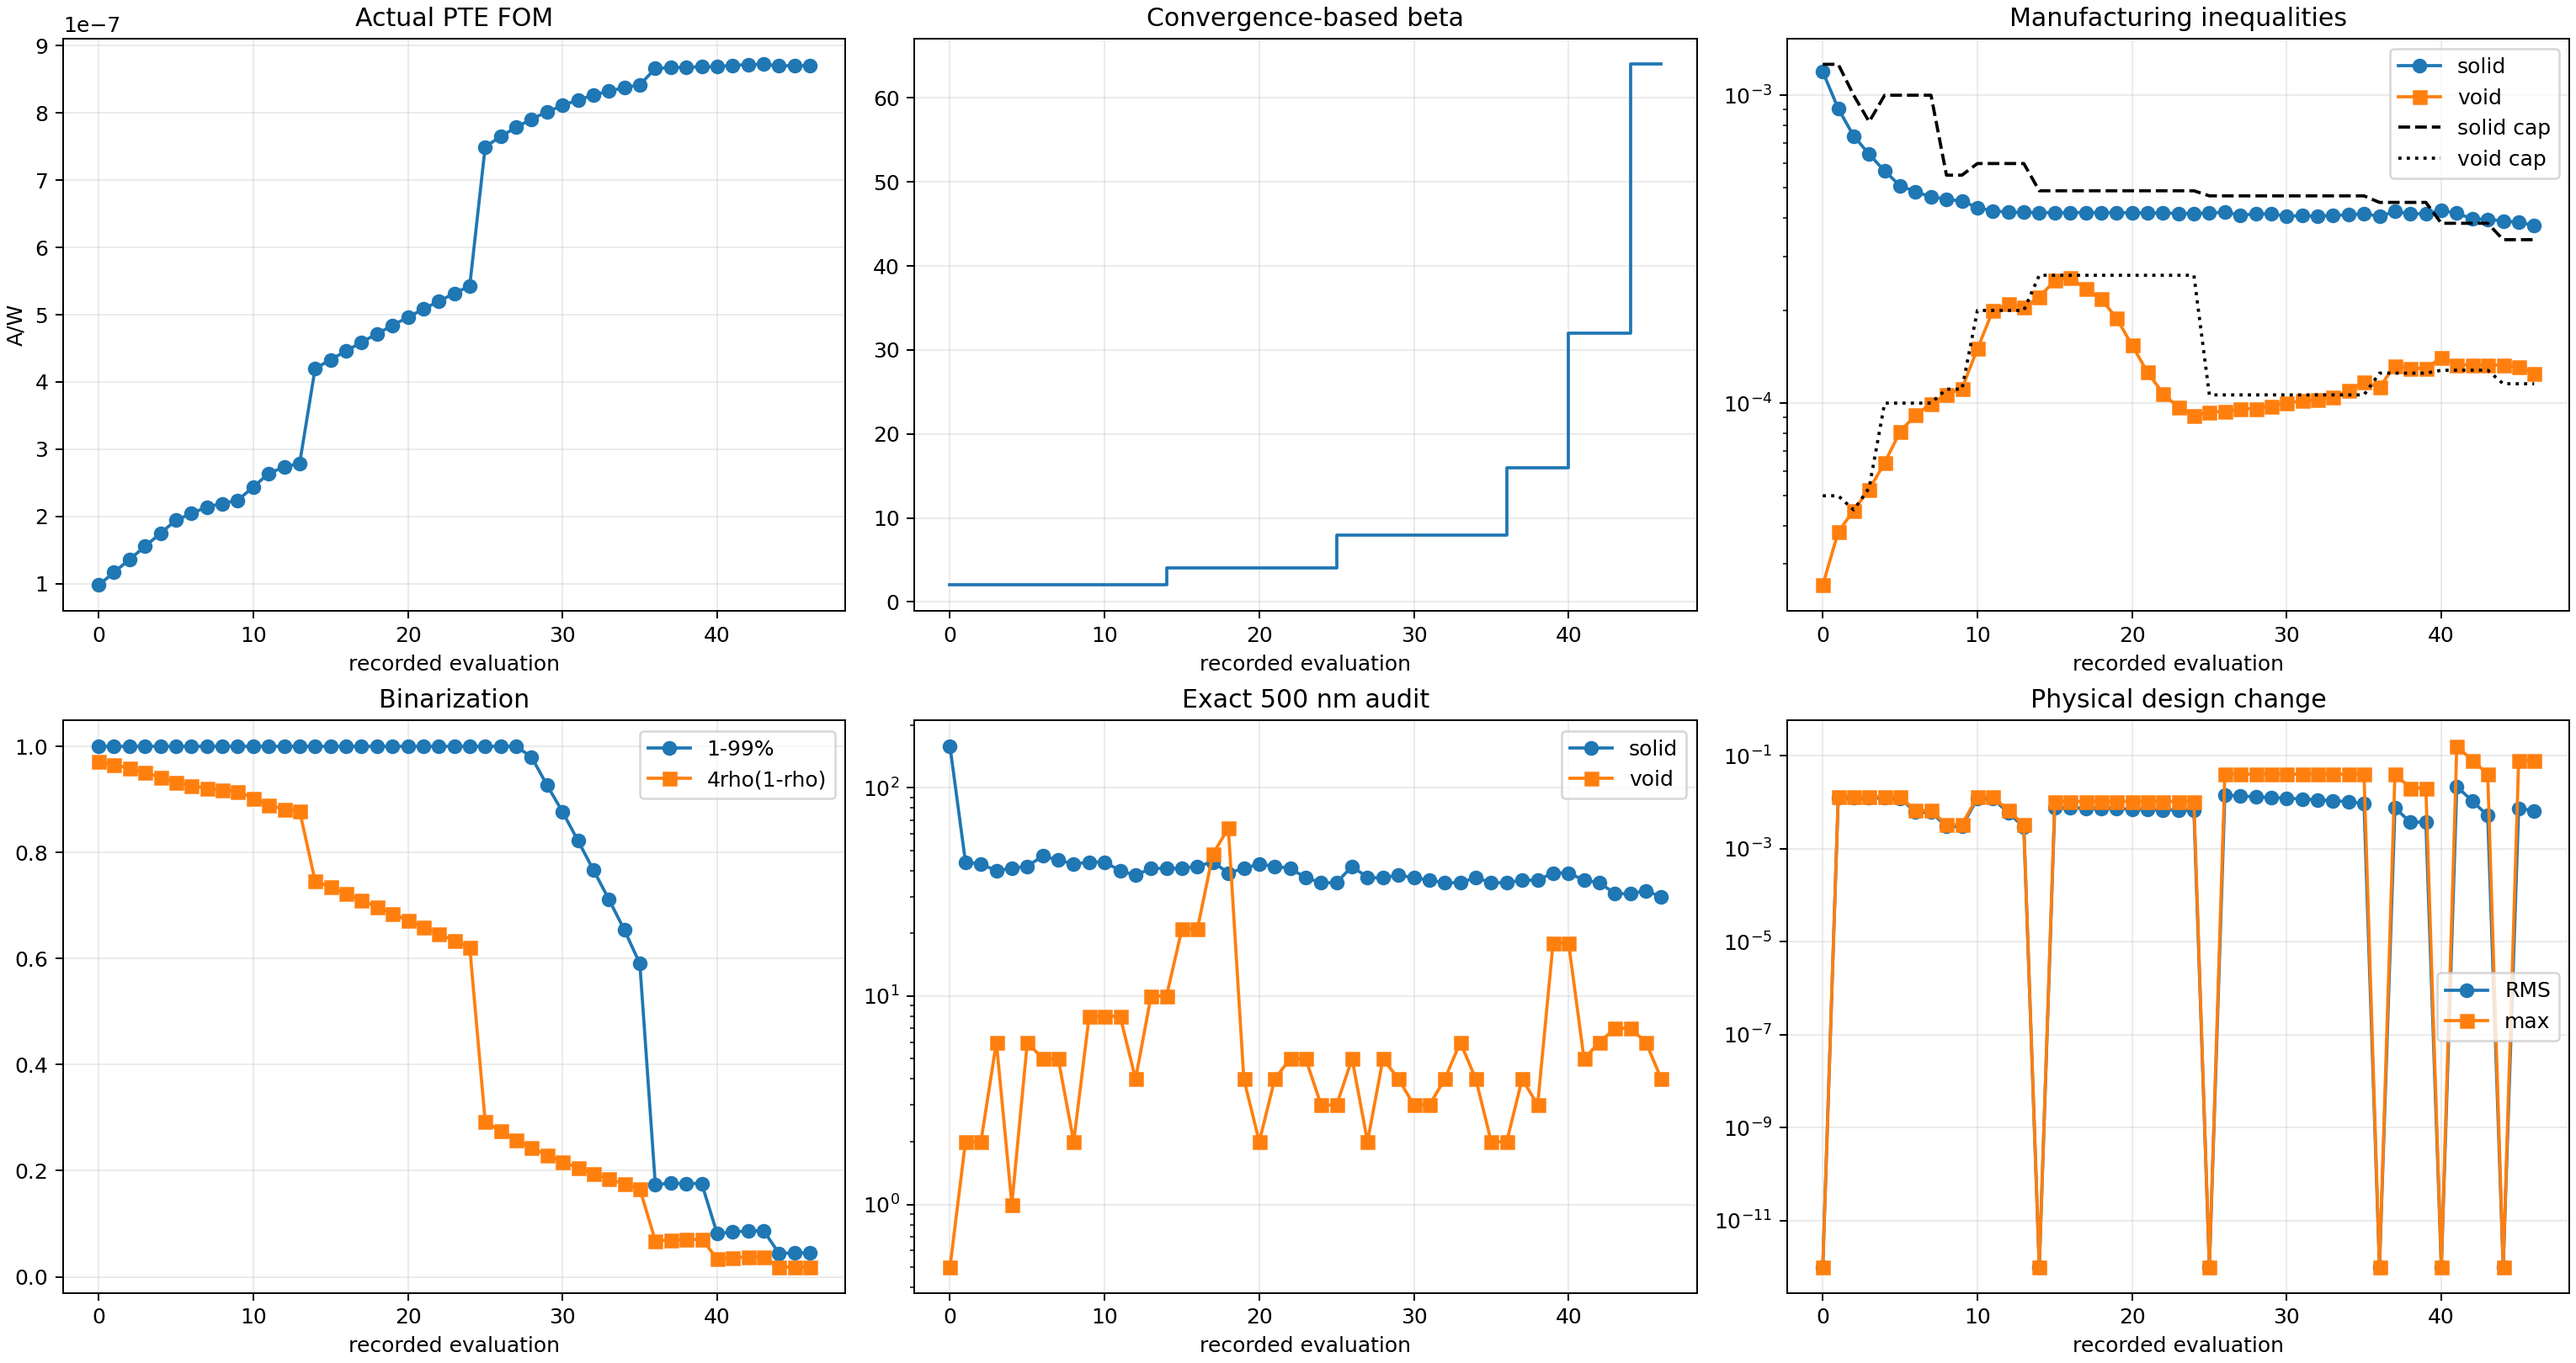
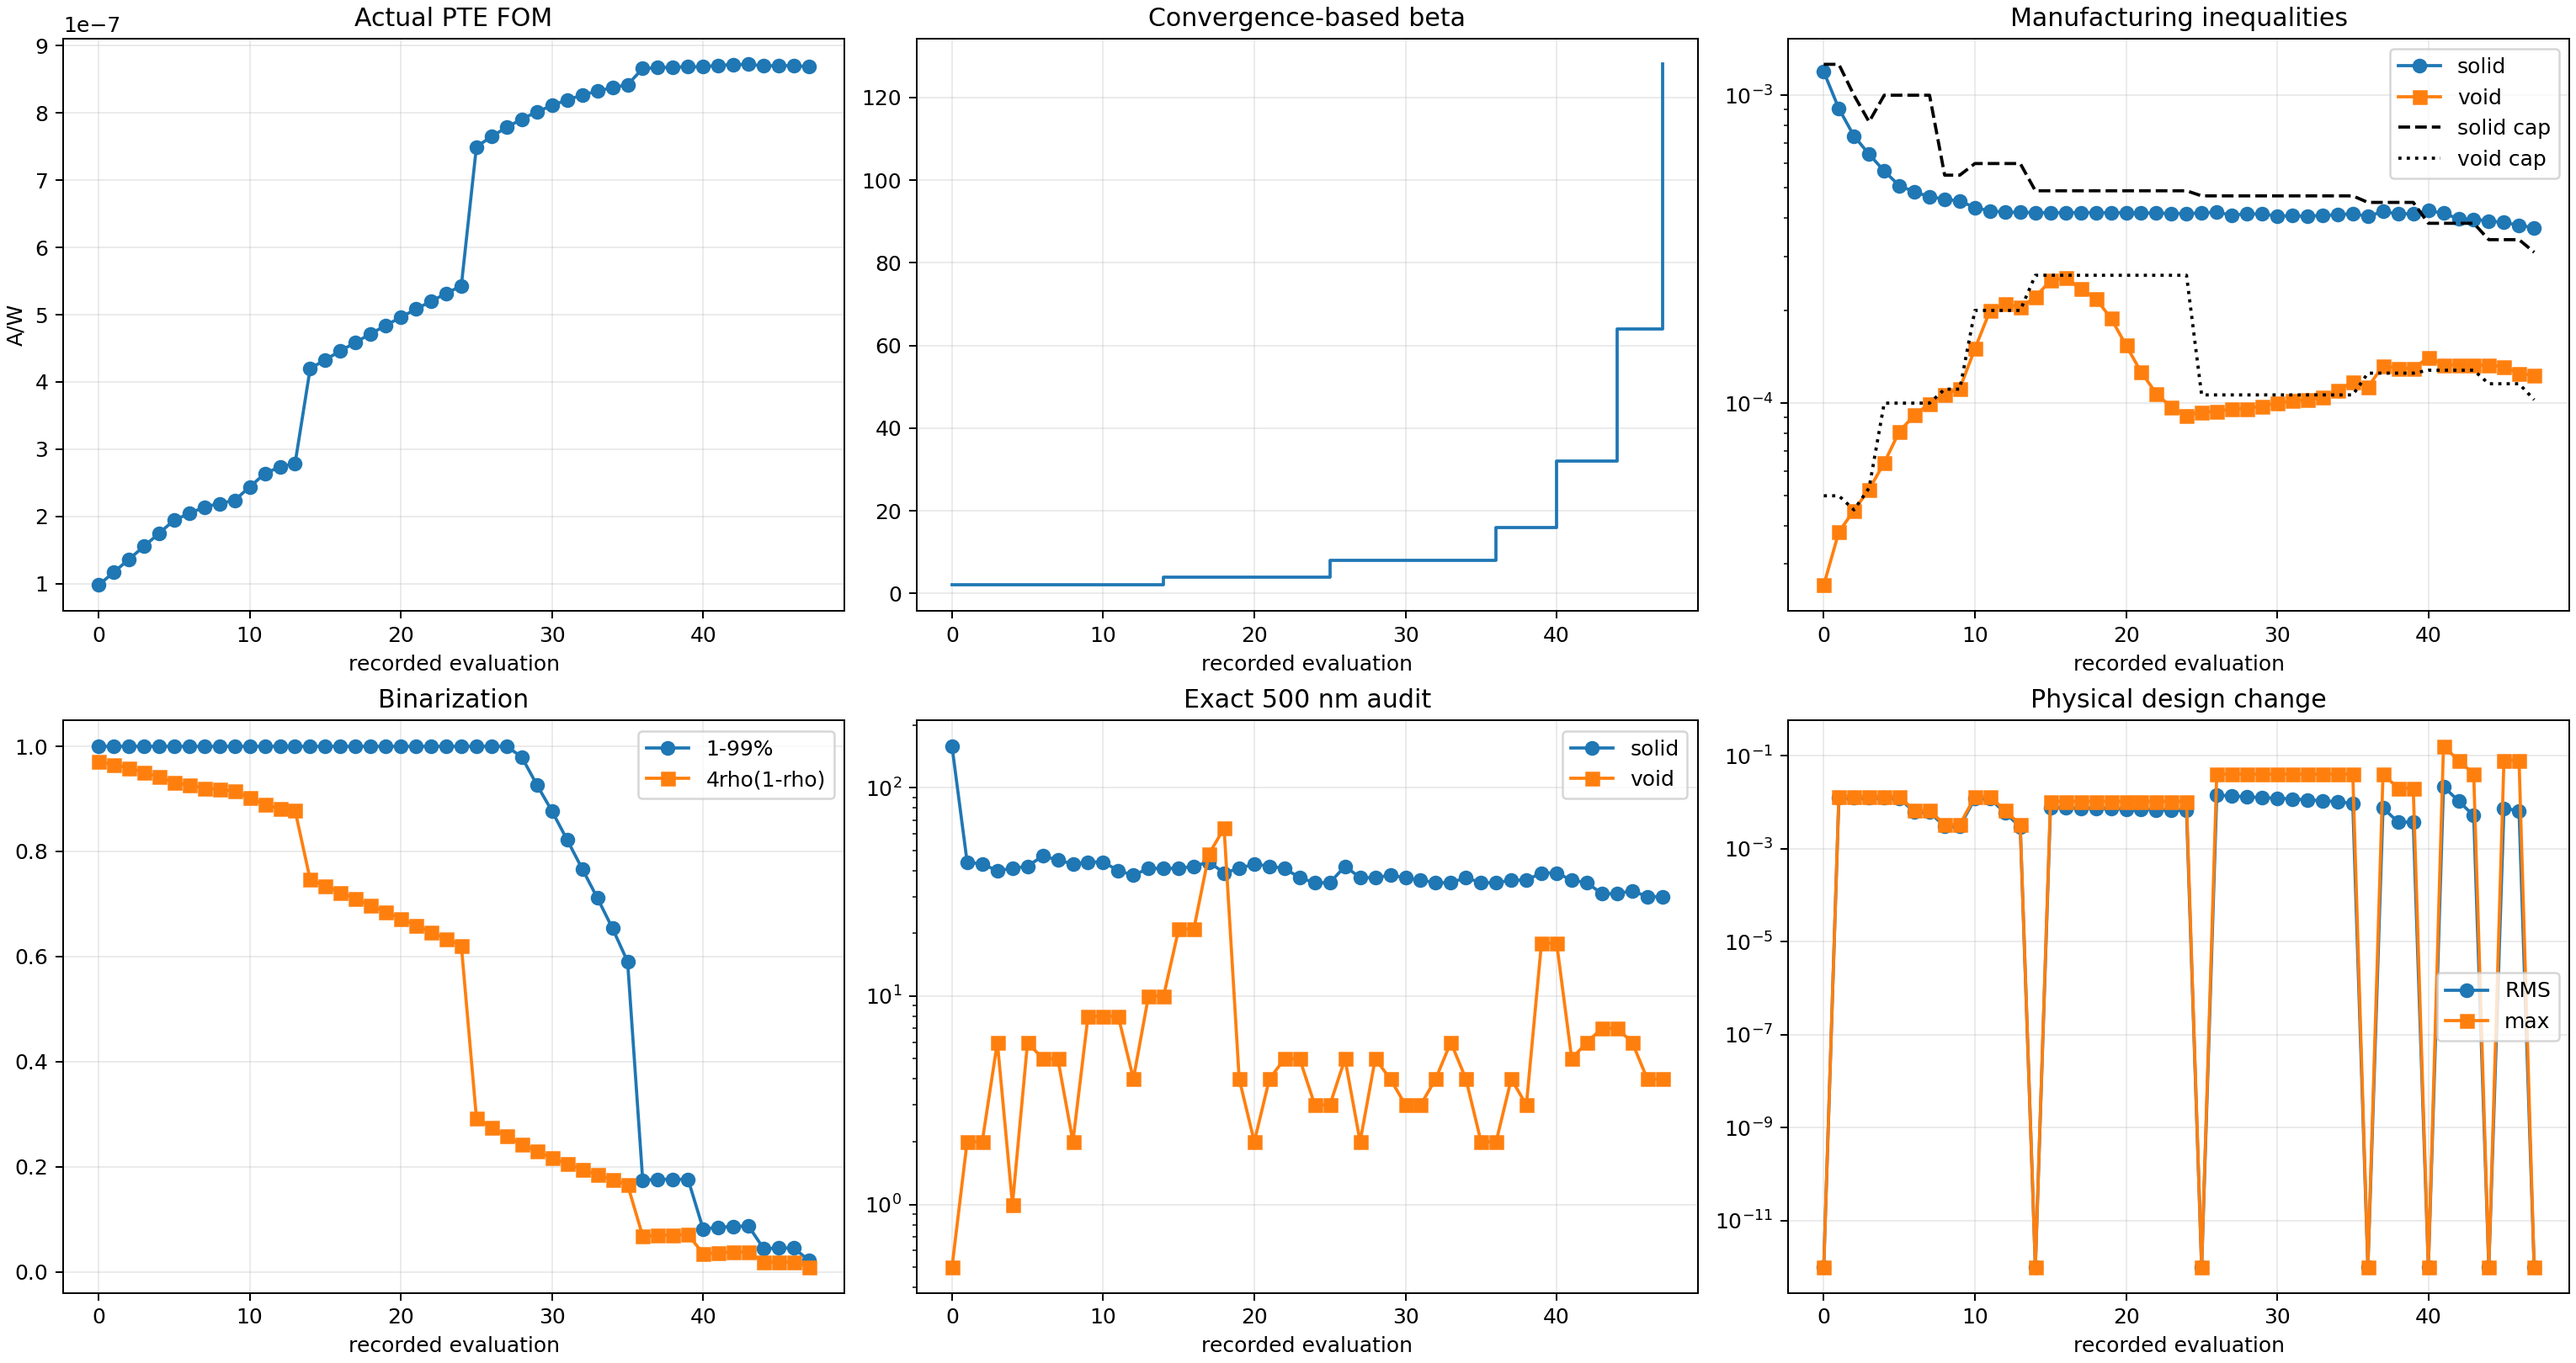
Record Run 005 run005_b128_s000_g042_stage_baseline

diff --git a/photothermal_pte/optimization_runs/run_005_lowbeta_topology_exploration_pilot/results/OPTIMIZATION_REPORT.md b/photothermal_pte/optimization_runs/run_005_lowbeta_topology_exploration_pilot/results/OPTIMIZATION_REPORT.md
@@ -2,11 +2,11 @@
 
 Status: `RUNNING_RUN005_FULL_BINARY_BETA_CONTINUATION`
 
-Current stage: beta=64, accepted stage iteration=2, global iteration=42.
+Current stage: beta=128, accepted stage iteration=0, global iteration=42.
 
 Constraint contract: `soft_disk_opening_500nm_from_iteration_zero_v5`.
 
-Actual FOM: `8.704448773781e-07 A/W`. Fixed-cap solid/void constraints: `3.782446e-04` / `1.248144e-04` with caps `3.395149e-04` / `1.155719e-04`.
+Actual FOM: `8.690183548697e-07 A/W`. Fixed-cap solid/void constraints: `3.708516e-04` / `1.230692e-04` with caps `3.090430e-04` / `1.025576e-04`.
 
 Exact 500 nm bad cells: solid `30`, void `4`. Stage convergence: `False` (need at least 6 accepted updates).
 
